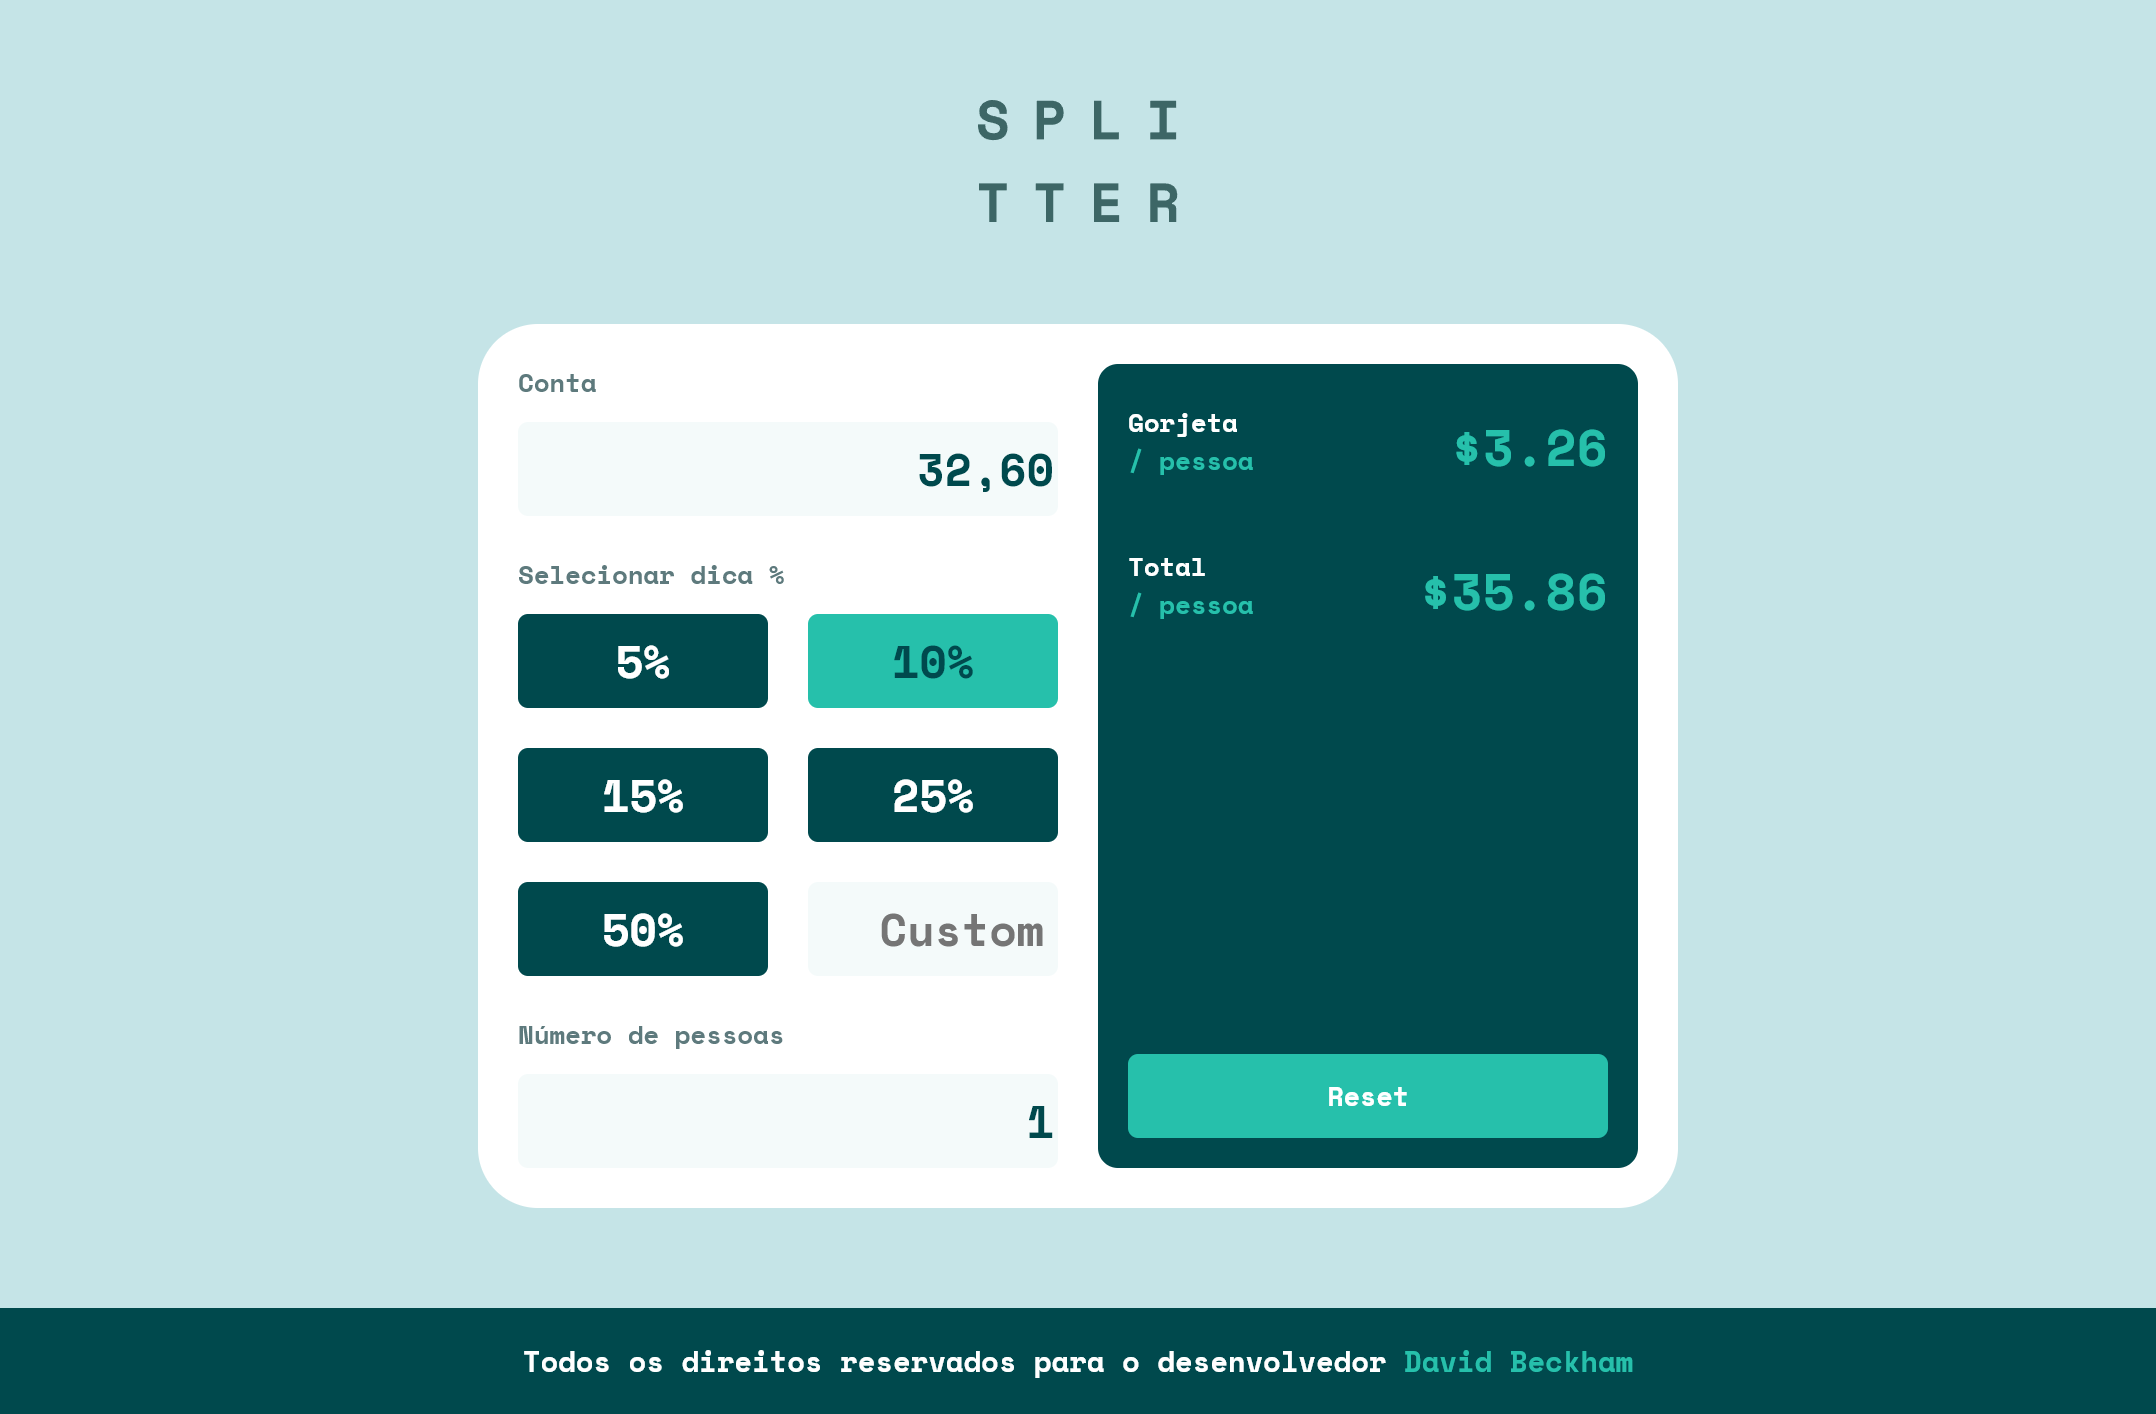
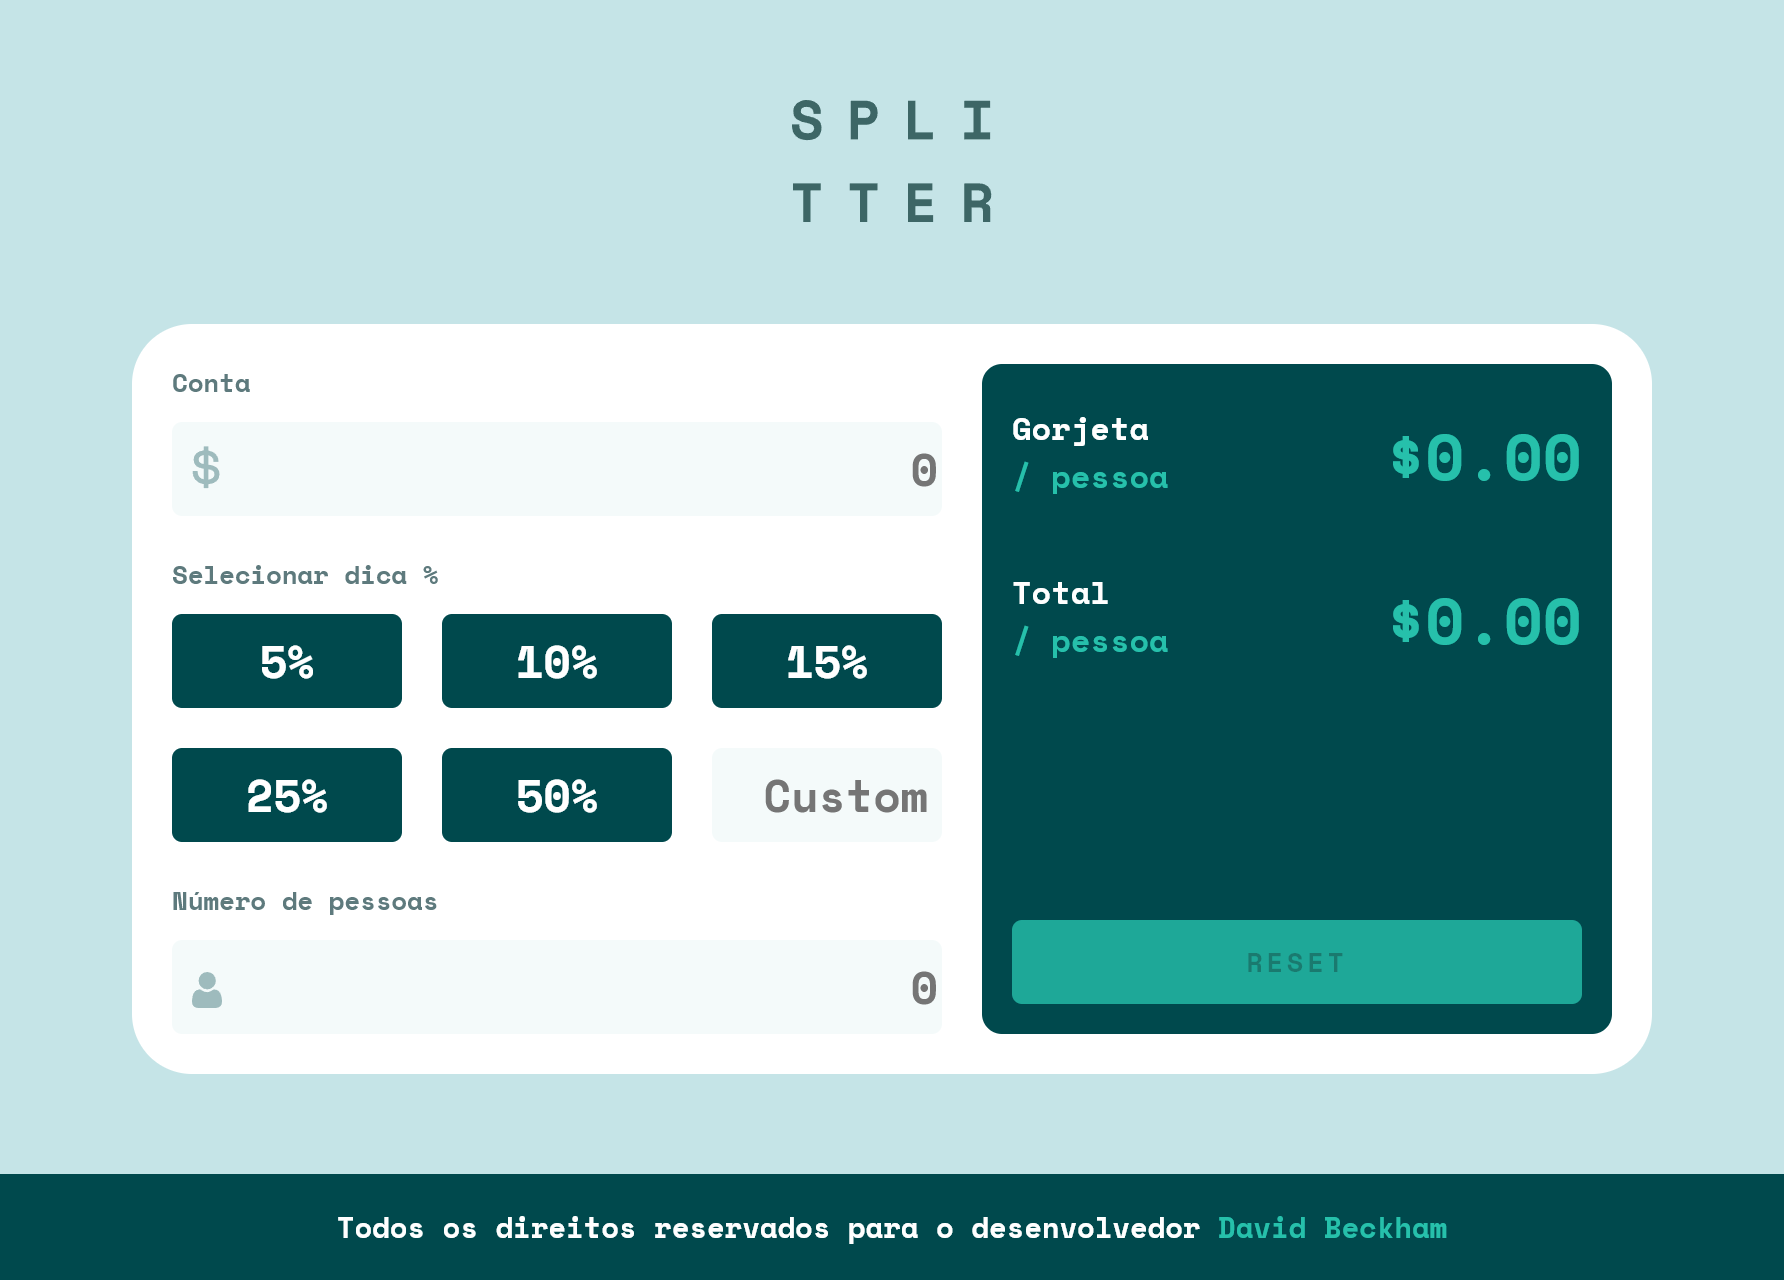
Mudando o screeshot e o link no REAME principal

diff --git a/index.html b/index.html
@@ -4,7 +4,7 @@
 <head>
   <meta charset="UTF-8">
   <meta name="viewport" content="width=device-width, initial-scale=1.0">
-  <link rel="icon" type="image/png" sizes="32x32" href="./img/favicon-32x32.png">
+  <link rel="icon" type="image/png" sizes="32x32" href="./assets/img/favicon-32x32.png">
   <link rel="stylesheet" href="./assets/css/estilo.css">
   <script src="./assets/js/script.js" defer></script>
   <title>Frontend Mentor | Calculadora de gorjetas</title>

diff --git a/README.md b/README.md
@@ -28,7 +28,7 @@ Este pequeno aplicativo é perfeito para qualquer um que esteja começando a ent
    **cd "caminho do local da pasta"**
 
 1. Clone o repositório:
-   git clone https://github.com/DavidMarinho2203/calculadora-de-idade
+   git clone https://github.com/DavidMarinho2203/calculadora-de-gorjetas
 
 2. Abra o arquivo `index.html` no seu navegador ou utilize uma extensão do VS Code como "Live Server" para ver o projeto em execução.
 
